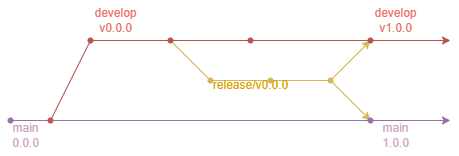
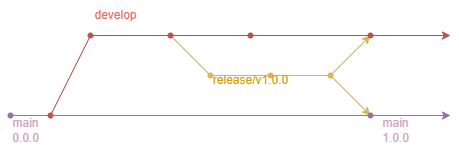
docs: modificado cmBook con respecto al drive
Se ha actualizado las imágenes, información de la release branch
y se ha añadido la DoD

diff --git a/docs/cmBook/src/branching_strat_peer_review/branches/realease_branch.md b/docs/cmBook/src/branching_strat_peer_review/branches/realease_branch.md
@@ -9,5 +9,5 @@ hace etiqueta con una [versión](../../versioning_policy.md).
 Nomenclatura: `release/v{versiónDeRelease}`
 > La versión de release se corresponde con la versión de la rama develop en el momento que se bifurcó la rama
 
-Ejemplo: `release/v0.0.0` (Esta rama parte de la rama `develop` v0.0.0. Una vez se realiza el merge con la rama `develop`,
-la rama `develop` pasa a ser v1.0.0, la rama `main` también aumenta su versión al hacer merge con ella  y además se crea una TAG).
+Ejemplo: ``release/v1.0.0.`` Una vez se realiza el merge con la rama ``develop`` y ``main``,
+esta última  pasa a ser ``v1.0.0`` (Además se crea una TAG).

diff --git a/docs/cmBook/src/SUMMARY.md b/docs/cmBook/src/SUMMARY.md
@@ -14,6 +14,8 @@
     - [Bugfix](branching_strat_peer_review/branches/bugfix.md)
     - [Revisiones por pares](branching_strat_peer_review/peer_review.md)
 - [Política de control de versiones](./versioning_policy.md)
+- [Definición de hecho](DoD.md)
+
 ----
 [Anexo 1: Nuestro equipo](CONTRIBUTORS.md)
 [Anexo 2: Bibliografía](REFERENCES.md)

diff --git a/docs/cmBook/src/DoD.md b/docs/cmBook/src/DoD.md
@@ -1,0 +1,3 @@
+# Definición de Hecho
+
+Para que una tarea se considere hecha, deben haberse cumplido todos los criterios de aceptación definidos en la propia tarea y además la tarea debe ser revisada por un compañero (Revisión por pares).
